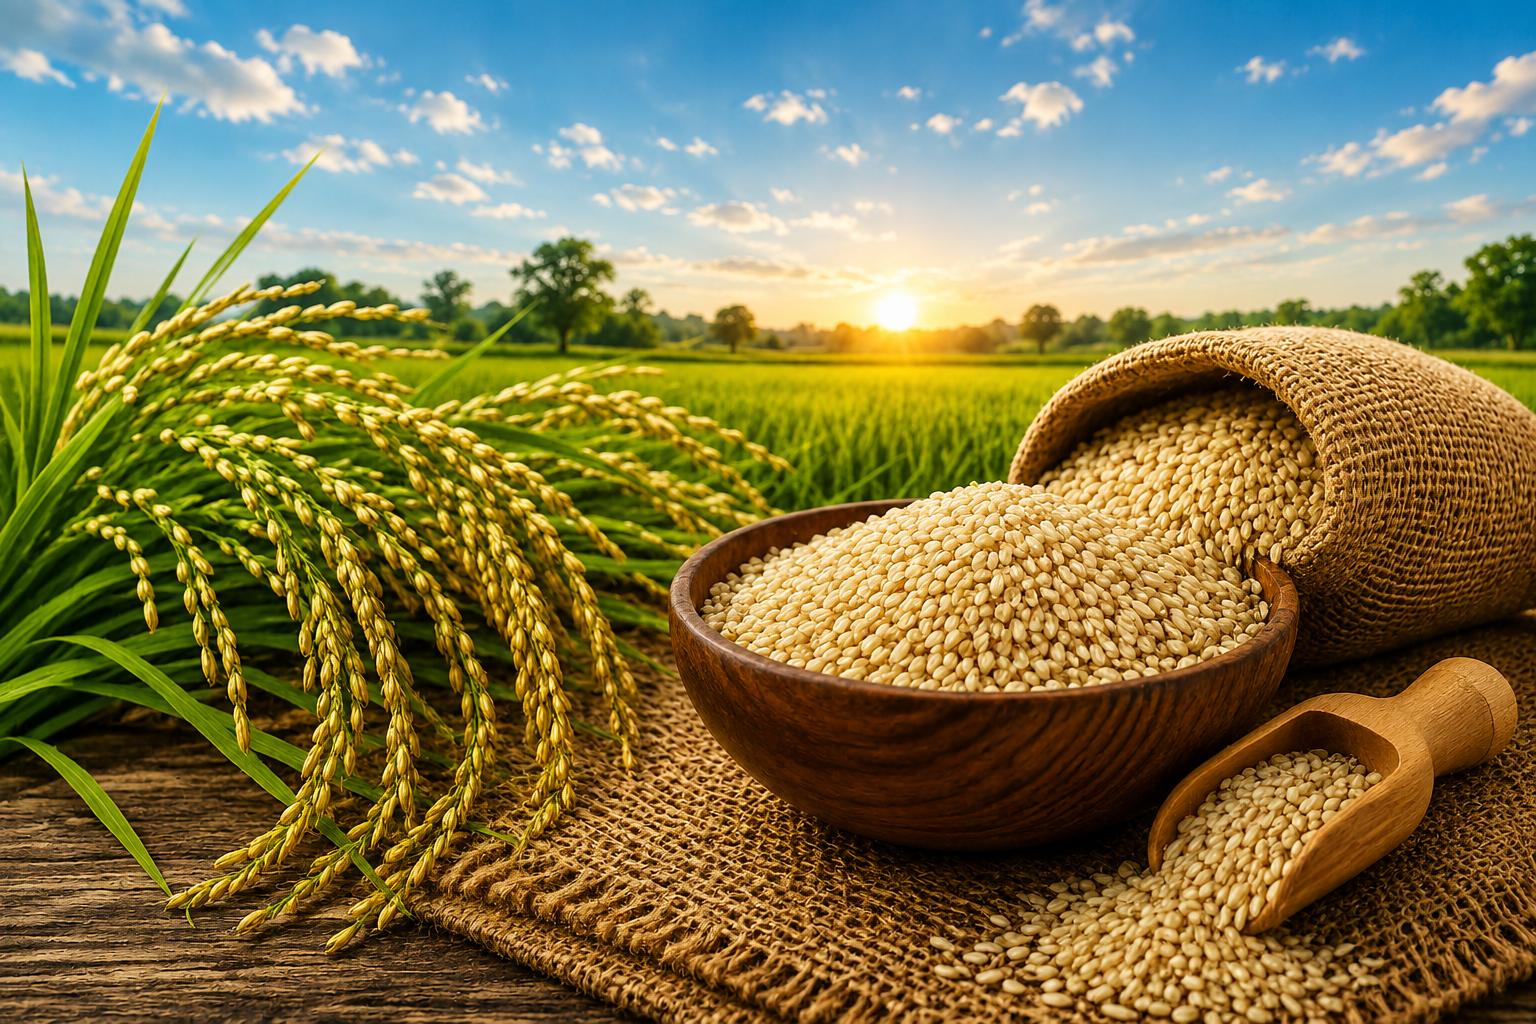
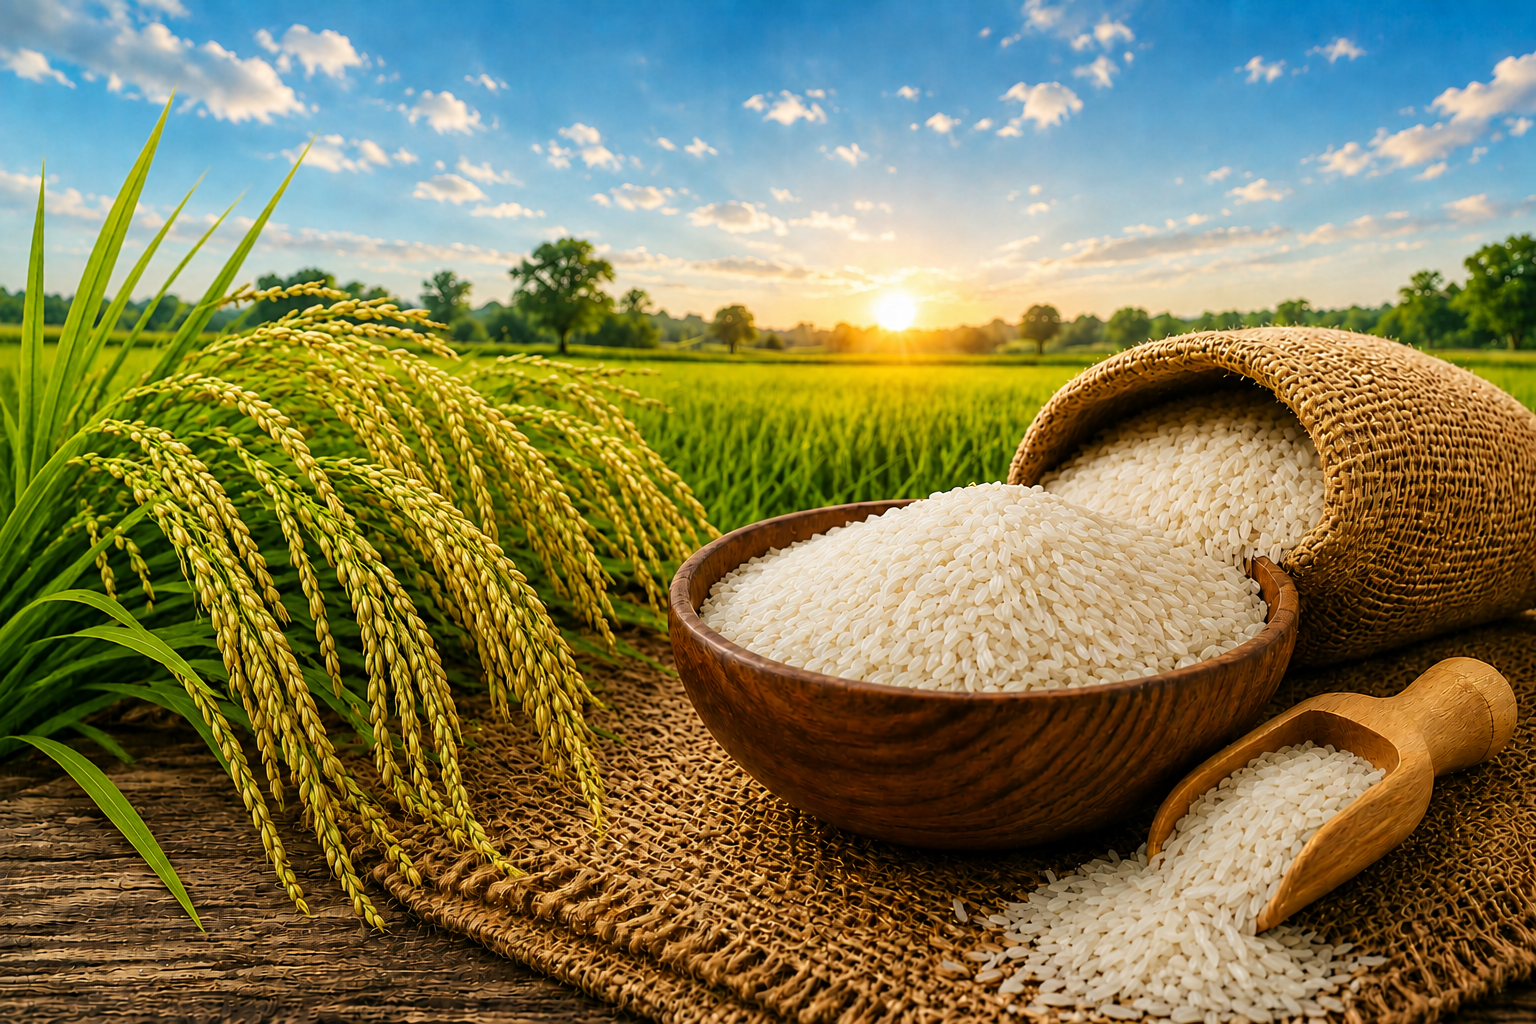
changes

diff --git a/app/layout.tsx b/app/layout.tsx
@@ -58,6 +58,7 @@ export const metadata: Metadata = {
   applicationName: "SuSiddha Agro Products",
 
   category: "Food",
+  themeColor: "#1F5132",
 
   robots: {
     index: true,
@@ -79,27 +80,25 @@ export const metadata: Metadata = {
   },
 
   openGraph: {
-    type: "website",
-    locale: "en_IN",
+  type: "website",
+  locale: "en_IN",
+  url: "https://su-siddha-argo-website.vercel.app",
+  siteName: "SuSiddha Agro Products",
 
-    url: "https://su-siddha-argo-website.vercel.app",
+  title: "SuSiddha Agro Products | Premium Unpolished Sona Masuri Rice",
 
-    siteName: "SuSiddha Agro Products",
+  description:
+    "Premium naturally processed unpolished Sona Masuri rice with authentic taste, rich nutrition and farm-fresh quality.",
 
-    title: "SuSiddha Agro Products | Premium Unpolished Sona Masuri Rice",
-
-    description:
-      "Premium naturally processed unpolished Sona Masuri rice with authentic taste, rich nutrition and farm-fresh quality.",
-
-    images: [
-      {
-        url: "/images/hero-rice.png",
-        width: 1200,
-        height: 630,
-        alt: "SuSiddha Premium Unpolished Sona Masuri Rice",
-      },
-    ],
-  },
+  images: [
+    {
+      url: "/images/og-banner.jpg",
+      width: 1200,
+      height: 630,
+      alt: "SuSiddha Agro Products - Premium Unpolished Sona Masuri Rice",
+    },
+  ],
+},
 
   twitter: {
     card: "summary_large_image",
@@ -109,14 +108,83 @@ export const metadata: Metadata = {
     description:
       "Premium naturally processed unpolished Sona Masuri rice.",
 
-    images: ["/images/hero-rice.png"],
+    images: ["/images/og-banner.jpg"],
   },
 
   alternates: {
     canonical: "/",
   },
 };
+const schemaData = {
+  "@context": "https://schema.org",
+  "@graph": [
+    {
+      "@type": "Organization",
+      "@id": "https://su-siddha-argo-website.vercel.app/#organization",
+      name: "SuSiddha Agro Products",
+      url: "https://su-siddha-argo-website.vercel.app",
+      logo: {
+        "@type": "ImageObject",
+        url: "https://su-siddha-argo-website.vercel.app/images/logo.png",
+      },
+      image: "https://su-siddha-argo-website.vercel.app/images/logo.png",
+      email: "mailto:[email redacted]",
+      telephone: "[phone redacted]",
+      address: {
+        "@type": "PostalAddress",
+        streetAddress:
+          "Plot No.16, Mini Industrial Area, Mathuranagar, Anandnagar",
+        addressLocality: "Maharajganj",
+        addressRegion: "Uttar Pradesh",
+        addressCountry: "IN",
+      },
+    },
 
+    {
+      "@type": "WebSite",
+      "@id": "https://su-siddha-argo-website.vercel.app/#website",
+      url: "https://su-siddha-argo-website.vercel.app",
+      name: "SuSiddha Agro Products",
+      publisher: {
+        "@id":
+          "https://su-siddha-argo-website.vercel.app/#organization",
+      },
+      inLanguage: "en-IN",
+    },
+
+    {
+      "@type": "WebPage",
+      "@id": "https://su-siddha-argo-website.vercel.app/#webpage",
+      url: "https://su-siddha-argo-website.vercel.app",
+      name: "Premium Unpolished Sona Masuri Rice",
+      isPartOf: {
+        "@id":
+          "https://su-siddha-argo-website.vercel.app/#website",
+      },
+      about: {
+        "@id":
+          "https://su-siddha-argo-website.vercel.app/#organization",
+      },
+    },
+
+    {
+      "@type": "Product",
+      name: "Premium Unpolished Sona Masuri Rice",
+      brand: {
+        "@type": "Brand",
+        name: "SuSiddha",
+      },
+      category: "Rice",
+      countryOfOrigin: "India",
+      description:
+        "Premium naturally processed unpolished Sona Masuri rice rich in nutrition, fiber and authentic taste.",
+      manufacturer: {
+        "@id":
+          "https://su-siddha-argo-website.vercel.app/#organization",
+      },
+    },
+  ],
+};
 export default function RootLayout({
   children,
 }: Readonly<{
@@ -129,8 +197,14 @@ export default function RootLayout({
       className={`${geistSans.variable} ${geistMono.variable} scroll-smooth antialiased`}
     >
       <body className="min-h-screen overflow-x-hidden bg-[#FFFDF8] font-sans text-[#1F5132] selection:bg-[#D4AF37] selection:text-white">
+        <script
+          type="application/ld+json"
+          dangerouslySetInnerHTML={{
+            __html: JSON.stringify(schemaData),
+          }}
+        />
         <CursorGlow />
-
+        
         <main className="relative isolate">
           {children}
         </main>

diff --git a/app/components/FarmToFamily.tsx b/app/components/FarmToFamily.tsx
@@ -29,9 +29,11 @@ export default function FarmToFamily() {
           <div className="grid md:grid-cols-4 gap-8">
             {/* Seed Selection */}
             <div className="group relative overflow-hidden rounded-[30px] border border-white/60 bg-white/80 backdrop-blur-xl shadow-xl transition-all duration-500 hover:-translate-y-4 hover:shadow-[0_30px_70px_rgba(31,81,50,0.20)]">
-              <img
-                src="https://images.unsplash.com/photo-1625246333195-78d9c38ad449?auto=format&fit=crop&w=800&q=80"
-                alt="Seed Selection"
+              <Image
+                src="/images/seed.jpeg"
+                alt="Unpolished Sona Masuri Rice"
+                width={900}
+                height={600}
                 className="h-64 w-full object-cover transition duration-700 group-hover:scale-110"
               />
               <div className="absolute inset-0 bg-gradient-to-t from-[#1F5132]/60 via-transparent to-transparent"></div>
@@ -50,9 +52,11 @@ export default function FarmToFamily() {
 
             {/* Cultivation */}
             <div className="group relative overflow-hidden rounded-[30px] border border-white/60 bg-white/80 backdrop-blur-xl shadow-xl transition-all duration-500 hover:-translate-y-4 hover:shadow-[0_30px_70px_rgba(31,81,50,0.20)]">
-              <img
-                src="https://images.unsplash.com/photo-1500937386664-56d1dfef3854?auto=format&fit=crop&w=800&q=80"
-                alt="Green Rice Field"
+              <Image
+                src="/images/cultivation.jpeg"
+                alt="Unpolished Sona Masuri Rice"
+                width={900}
+                height={600}
                 className="h-64 w-full object-cover transition duration-700 group-hover:scale-110"
               />
               <div className="absolute inset-0 bg-gradient-to-t from-[#1F5132]/60 via-transparent to-transparent"></div>

diff --git a/app/viewport.ts b/app/viewport.ts
@@ -1,0 +1,8 @@
+import type { Viewport } from "next";
+
+export const viewport: Viewport = {
+  themeColor: "#1F5132",
+  colorScheme: "light",
+  width: "device-width",
+  initialScale: 1,
+};